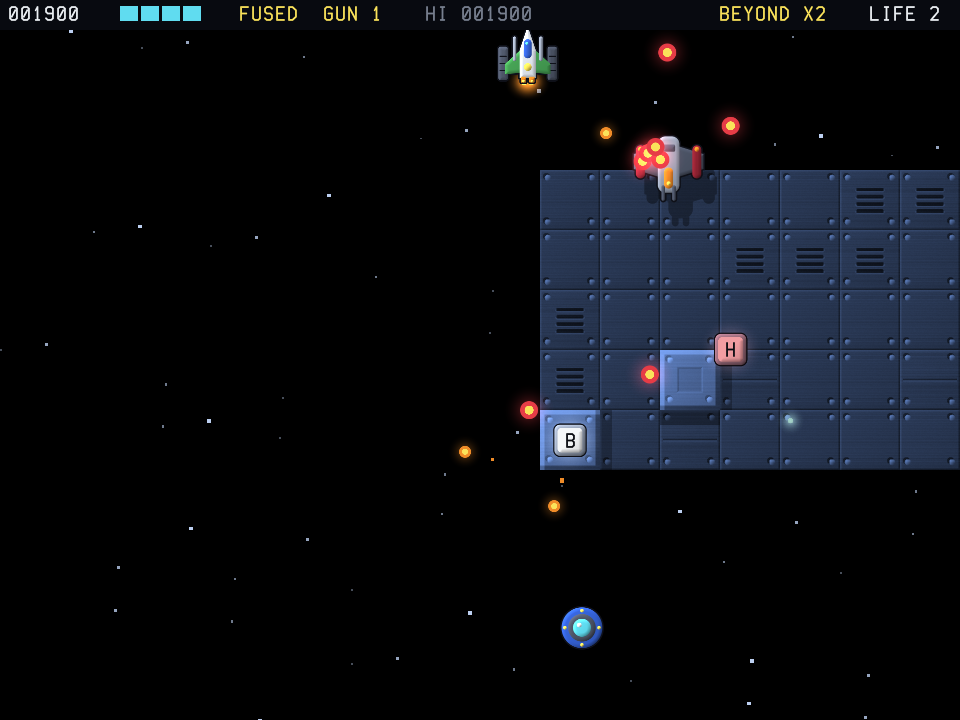
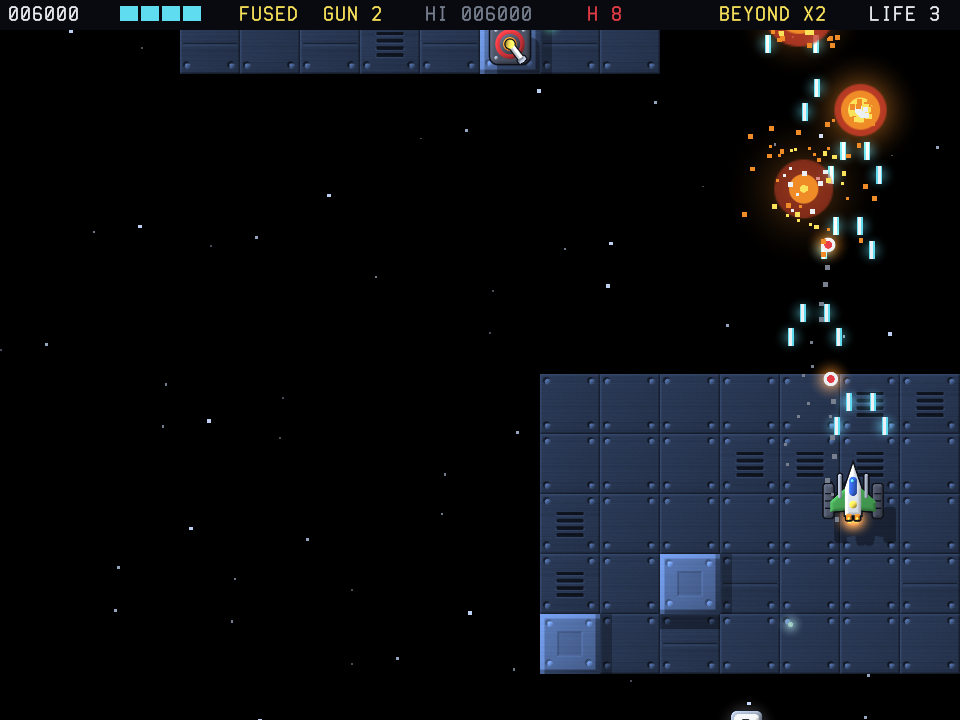
Give every fortress its own look
The nine fortresses moved and fired differently but were all drawn
from the same core and the same tower, in different colours.

Draw a core for each: a pinwheel, a shield with three prongs, a horned
wedge, a cluster of sacs, a ring with vanes, a blade with wings, a
plate with three cells and a slit-eyed ring, next to the first one.
The cores that fire a spiral turn with it.  Towers come in three
kinds.  The colour tint is gone.

The core sways a little less far, so it no longer rides over the
towers.

diff --git a/src/gfx.c b/src/gfx.c
@@ -46,7 +46,6 @@ struct font {
 
 static SDL_Renderer *ren;
 static SDL_Texture  *tex[SPR_MAX];
-static SDL_Color     tint[SPR_MAX];
 static SDL_Texture  *plate[THEME_MAX][PLATE_MAX];
 static SDL_Texture  *logo, *shine, *glow;
 static struct font   font[FONTS];
@@ -220,16 +219,167 @@ static const struct shape orb[] = {
 	{ 0 }
 };
 
+/* Round tower, for the fortresses with three. */
+static const struct shape pod3[] = {
+	{ 'c', 'd', 0, { 0, 0, 13.8f } },
+	{ 'c', 'O', 0, { 0, 0, 11.8f } },
+	{ 'c', 'g', 1, { 9, 0, 1 } },
+	{ 'c', 'g', 0, { 0, -9, 1 } },
+	{ 'c', 'g', 0, { 0, 9, 1 } },
+	{ 'c', 'd', 0, { 0, 0, 7.6f } },
+	{ 'c', 'y', 0, { 0, 0, 6 } },
+	{ 'c', 'o', 0, { 0, 0, 3.6f } },
+	{ 0 }
+};
+
+/* Armoured tower with a cross, for the fortresses with four. */
+static const struct shape pod4[] = {
+	{ 'b', 'd', 0, { 0, 0, 13.6f, 13.6f, 2 } },
+	{ 'b', 'B', 0, { 0, 0, 11.6f, 11.6f, 1.2f } },
+	{ 'b', 'd', 0, { 0, 0, 11.6f, 2.6f, 0.4f } },
+	{ 'b', 'd', 0, { 0, 0, 2.6f, 11.6f, 0.4f } },
+	{ 'c', 'd', 0, { 0, 0, 8.4f } },
+	{ 'c', 'c', 0, { 0, 0, 6.6f } },
+	{ 'c', 'b', 0, { 0, 0, 4 } },
+	{ 0 }
+};
+
+/* Pinwheel: four blades around a hub. */
+static const struct shape core2[] = {
+	{ 'p', 'T', 0, { 3, 2, -8, 21, -12, 9, 3 } },
+	{ 'p', 'T', 0, { 3, 8, 2, 12, 21, -3, 9 } },
+	{ 'p', 'T', 0, { 3, -2, 8, -21, 12, -9, -3 } },
+	{ 'p', 'T', 0, { 3, -8, -2, -12, -21, 3, -9 } },
+	{ 'c', 'T', 0, { 0, 0, 12.5f } },
+	{ 'c', 'd', 0, { 0, 0, 9.6f } },
+	{ 'c', 't', 0, { 0, 0, 7.8f } },
+	{ 'c', 'c', 0, { 0, 0, 4.6f } },
+	{ 'c', 'W', 0, { 0, 0, 1.8f } },
+	{ 0 }
+};
+
+/* Trident: a shield with three prongs pointing down the deck. */
+static const struct shape core3[] = {
+	{ 'p', 'g', 0, { 3, -3.4f, 6, 3.4f, 6, 0, 22.5f } },
+	{ 'p', 'g', 1, { 3, 8.5f, 4, 14.5f, 4, 12.5f, 19 } },
+	{ 'l', 'd', 1, { 18.5f, -13, 18.5f, 3, 2.6f } },
+	{ 'b', 'O', 0, { 0, -5, 17, 11, 4.5f } },
+	{ 'b', 'o', 0, { 0, -5, 14, 8, 3 } },
+	{ 'c', 'd', 0, { 0, -5, 7.6f } },
+	{ 'c', 'r', 0, { 0, -5, 5.8f } },
+	{ 'c', 'y', 0, { 0, -5, 3 } },
+	{ 0 }
+};
+
+/* Ram: a horned wedge. */
+static const struct shape core4[] = {
+	{ 'p', 'g', 1, { 3, 9, -13, 17, -22.5f, 19, -13 } },
+	{ 'p', 'R', 0, { 5, -18, -14, 18, -14, 20.5f, 0, 0, 22.5f, -20.5f, 0 } },
+	{ 'p', 'r', 0, { 5, -13, -10, 13, -10, 14.5f, -1, 0, 15, -14.5f, -1 } },
+	{ 'l', 'R', 0, { 0, -8, 0, 10, 1.3f } },
+	{ 'c', 'd', 1, { 6.4f, -3.5f, 3.6f } },
+	{ 'c', 'y', 1, { 6.4f, -3.5f, 2.5f } },
+	{ 'c', 'W', 1, { 6.4f, -3.5f, 1 } },
+	{ 0 }
+};
+
+/* Brood: a cluster of sacs around an eye. */
+static const struct shape core5[] = {
+	{ 'c', 'H', 1, { 13, 7, 8.5f } },
+	{ 'c', 'H', 1, { 11.5f, -12, 7.5f } },
+	{ 'c', 'H', 0, { 0, 14, 8.5f } },
+	{ 'c', 'H', 0, { 0, -2, 15.5f } },
+	{ 'c', 'G', 1, { 13, 7, 6 } },
+	{ 'c', 'G', 1, { 11.5f, -12, 5 } },
+	{ 'c', 'G', 0, { 0, 14, 6 } },
+	{ 'c', 'G', 0, { 0, -2, 12.5f } },
+	{ 'c', 'L', 1, { 13, 7, 3.2f } },
+	{ 'c', 'L', 1, { 11.5f, -12, 2.4f } },
+	{ 'c', 'L', 0, { 0, 14, 3.2f } },
+	{ 'c', 'd', 0, { 0, -2, 6.6f } },
+	{ 'c', 'y', 0, { 0, -2, 4.8f } },
+	{ 'c', 'r', 0, { 0, -2, 2.2f } },
+	{ 0 }
+};
+
+/* Cyclone: rings and vanes. */
+static const struct shape core6[] = {
+	{ 'c', 'B', 0, { 0, 0, 20.5f } },
+	{ 'l', 'b', 0, { -18.5f, 0, 18.5f, 0, 2.2f } },
+	{ 'l', 'b', 1, { -9.2f, -16, 9.2f, 16, 2.2f } },
+	{ 'c', 'd', 0, { 0, 0, 13.4f } },
+	{ 'c', 'b', 0, { 0, 0, 11.4f } },
+	{ 'c', 'c', 0, { 0, 0, 7.8f } },
+	{ 'c', 'B', 0, { 0, 0, 5 } },
+	{ 'c', 'W', 0, { 0, 0, 2.4f } },
+	{ 0 }
+};
+
+/* Lancer: a long blade with short wings. */
+static const struct shape core7[] = {
+	{ 'l', 'g', 1, { 19.5f, -4, 19.5f, 11, 1.7f } },
+	{ 'p', 'M', 1, { 4, 5, -13, 21.5f, -5, 21.5f, 2, 5, 3 } },
+	{ 'p', 'm', 0, { 5, -5.5f, -21, 5.5f, -21, 7.5f, 4, 0, 23, -7.5f, 4 } },
+	{ 'l', 'M', 0, { 0, -16, 0, 13, 1.5f } },
+	{ 'c', 'd', 0, { 0, -9, 4.4f } },
+	{ 'c', 'y', 0, { 0, -9, 3 } },
+	{ 'c', 'W', 0, { 0, -9, 1.2f } },
+	{ 0 }
+};
+
+/* Swarm: three cells on a plate. */
+static const struct shape core8[] = {
+	{ 'p', 'O', 0, { 5, 0, -23, 21.5f, 9, 13, 20.5f, -13, 20.5f, -21.5f, 9 } },
+	{ 'c', 'd', 0, { 0, -11, 9.8f } },
+	{ 'c', 'd', 1, { 10.6f, 7.5f, 9.8f } },
+	{ 'c', 'y', 0, { 0, -11, 8 } },
+	{ 'c', 'y', 1, { 10.6f, 7.5f, 8 } },
+	{ 'c', 'o', 0, { 0, -11, 5 } },
+	{ 'c', 'o', 1, { 10.6f, 7.5f, 5 } },
+	{ 'c', 'd', 0, { 0, -11, 2.4f } },
+	{ 'c', 'd', 1, { 10.6f, 7.5f, 2.4f } },
+	{ 'c', 'W', 0, { 0, 1.5f, 1.8f } },
+	{ 0 }
+};
+
+/* Overseer: an eye in a studded ring. */
+static const struct shape core9[] = {
+	{ 'b', 'R', 1, { 19, 0, 4, 6.5f, 1.6f } },
+	{ 'b', 'R', 0, { 0, -19, 6.5f, 4, 1.6f } },
+	{ 'b', 'R', 0, { 0, 19, 6.5f, 4, 1.6f } },
+	{ 'c', 'R', 1, { 14, -14, 4.6f } },
+	{ 'c', 'R', 1, { 14, 14, 4.6f } },
+	{ 'c', 'd', 0, { 0, 0, 19.5f } },
+	{ 'c', 'g', 1, { 14, -14, 1.6f } },
+	{ 'c', 'g', 1, { 14, 14, 1.6f } },
+	{ 'c', 'R', 0, { 0, 0, 16 } },
+	{ 'c', 'w', 0, { 0, 0, 13.4f } },
+	{ 'c', 'r', 0, { 0, 0, 8.8f } },
+	{ 'c', 'o', 0, { 0, 0, 6.4f } },
+	{ 'b', 'k', 0, { 0, 0, 1.9f, 6, 1.6f } },
+	{ 0 }
+};
+
 static const struct model model[SPR_MAX] = {
 	[SPR_SHIP]    = {  9, 0.5f, 0, ship },
 	[SPR_TANK]    = {  9, 0.5f, 0, tank },
 	[SPR_TURRET]  = {  8, 0.5f, 0, turret },
 	[SPR_GUN]     = {  8, 0.4f, 0, gun },
 	[SPR_POD]     = { 15, 0.6f, 0, pod },
+	[SPR_POD3]    = { 15, 0.6f, 0, pod3 },
+	[SPR_POD4]    = { 15, 0.6f, 0, pod4 },
 	[SPR_CRAWLER] = {  9, 0.5f, 0, crawler },
 	[SPR_DRONE]   = {  8, 0.5f, 0, drone },
 	[SPR_DART]    = {  9, 0.5f, 0, dart },
 	[SPR_CORE]    = { 24, 0.7f, 0, core },
+	[SPR_CORE2]   = { 24, 0.7f, 0, core2 },
+	[SPR_CORE3]   = { 24, 0.7f, 0, core3 },
+	[SPR_CORE4]   = { 24, 0.7f, 0, core4 },
+	[SPR_CORE5]   = { 24, 0.7f, 0, core5 },
+	[SPR_CORE6]   = { 24, 0.7f, 0, core6 },
+	[SPR_CORE7]   = { 24, 0.7f, 0, core7 },
+	[SPR_CORE8]   = { 24, 0.7f, 0, core8 },
+	[SPR_CORE9]   = { 24, 0.7f, 0, core9 },
 	[SPR_ROVER]   = {  8, 0.5f, 0, rover },
 	[SPR_GUNSHIP] = { 13, 0.5f, 0, gunship },
 	[SPR_HEAVY]   = { 11, 0.5f, 0, heavy },
@@ -256,6 +406,13 @@ static struct rgb pal(char ch)
 	case 'H': return (struct rgb){  44, 112,  64 };
 	case 'p': return (struct rgb){ 150,  84, 196 };
 	case 'P': return (struct rgb){ 100,  56, 140 };
+	case 't': return (struct rgb){  50, 180, 170 };
+	case 'T': return (struct rgb){  30, 110, 118 };
+	case 'm': return (struct rgb){ 222,  80, 170 };
+	case 'M': return (struct rgb){ 140,  44, 120 };
+	case 'B': return (struct rgb){  34,  60, 140 };
+	case 'O': return (struct rgb){ 160,  92,  36 };
+	case 'L': return (struct rgb){ 180, 226,  80 };
 	default:  return (struct rgb){  14,  16,  24 };
 	}
 }
@@ -745,10 +902,8 @@ void gfx_init(SDL_Renderer *r)
 		for (int i = 0; i < PLATE_MAX; i++)
 			plate[theme][i] = make_plate(i, theme);
 	}
-	for (int i = 0; i < SPR_MAX; i++) {
+	for (int i = 0; i < SPR_MAX; i++)
 		tex[i] = make_sprite(&model[i]);
-		tint[i] = (SDL_Color){ 255, 255, 255, 255 };
-	}
 	logo = make_logo();
 	glow = make_glow();
 }
@@ -777,14 +932,8 @@ void gfx_tinted(int id, float x, float y, float scale, SDL_Color c)
 	SDL_SetTextureColorMod(tex[id], c.r, c.g, c.b);
 	SDL_SetTextureAlphaMod(tex[id], c.a);
 	draw(id, x, y, 0, scale);
+	SDL_SetTextureColorMod(tex[id], 255, 255, 255);
 	SDL_SetTextureAlphaMod(tex[id], 255);
-	SDL_SetTextureColorMod(tex[id], tint[id].r, tint[id].g, tint[id].b);
-}
-
-void gfx_tint(int id, SDL_Color c)
-{
-	tint[id] = c;
-	SDL_SetTextureColorMod(tex[id], c.r, c.g, c.b);
 }
 
 void gfx_disc(float x, float y, float r, SDL_Color c)

diff --git a/src/game.c b/src/game.c
@@ -10,6 +10,7 @@
 #define BLAST_LIFE 20
 #define MAX_SHAKE  10
 #define SCAN_GAP   60
+#define SPIRAL_TURN 0.07f	/* radians per frame */
 #define CORE_CYCLE 300	/* frames between swoops, and between rovers */
 #define MAX_ITEM   8
 #define MAX_HP     4
@@ -363,22 +364,13 @@ static void skip_spawns(void)
 		g.next_spawn++;
 }
 
-static void load_level(int sector)
-{
-	SDL_Color tint = level_boss(sector)->tint;
-
-	level_generate(&lv, sector);
-	gfx_tint(SPR_CORE, tint);
-	gfx_tint(SPR_POD, tint);
-}
-
 static void start_sector(int sector)
 {
 	struct player *p = &g.p;
 
 	g.sector = sector;
 	g.mouse = 0;
-	load_level(sector);
+	level_generate(&lv, sector);
 
 	memset(g.enemy, 0, sizeof(g.enemy));
 	memset(g.bullet, 0, sizeof(g.bullet));
@@ -698,7 +690,7 @@ static void core_move(struct enemy *e)
 {
 	int dive = e->t % CORE_CYCLE - 200;
 
-	e->x = SCREEN_W / 2 + 70 * sinf(e->t * 0.02f);
+	e->x = SCREEN_W / 2 + 46 * sinf(e->t * 0.02f);
 	e->y = CORE_Y;
 
 	switch (boss()->move) {
@@ -726,7 +718,7 @@ static void core_fire(struct enemy *e, float aim)
 	case FIRE_SPIRAL:
 		/* two arms that turn as they fire */
 		if (e->t % (9 - rank() / 3) == 0)
-			enemy_fire(e, e->t * 0.07f, 2, (float)M_PI);
+			enemy_fire(e, e->t * SPIRAL_TURN, 2, (float)M_PI);
 		break;
 	case FIRE_FAN:
 		/* two volleys at the player, close together */
@@ -1055,7 +1047,7 @@ static void next_lap(void)
 {
 	float shift;
 
-	load_level(++g.sector);
+	level_generate(&lv, ++g.sector);
 	shift = START_CAM - g.cam;
 	g.cam += shift;
 	g.p.y += shift;
@@ -1111,7 +1103,7 @@ static void update_fuse(void)
 static void show_title(void)
 {
 	g.sector = 0;
-	load_level(0);
+	level_generate(&lv, 0);
 	g.cam = START_CAM;
 	g.state = ST_TITLE;
 	sfx_music("title");
@@ -1404,7 +1396,7 @@ static void draw_enemies(int air, float cam)
 		const struct enemy *e = &g.enemy[i];
 		const struct etype_info *t = &et[e->type];
 		float y = e->y - cam, aim = aim_at(e) * 180 / (float)M_PI, ang = 0;
-		int mode = e->flash ? DRAW_FLASH : DRAW_NORMAL;
+		int mode = e->flash ? DRAW_FLASH : DRAW_NORMAL, spr = t->sprite;
 
 		if (!e->alive || e->delay || flies(e) != air)
 			continue;
@@ -1416,12 +1408,21 @@ static void draw_enemies(int air, float cam)
 			ang = aim;
 		}
 
+		if (e->type == E_POD)
+			spr = boss()->pod;
+		if (e->type == E_CORE) {
+			spr = boss()->core;
+			/* the ones that fire a spiral turn with it */
+			if (boss()->fire == FIRE_SPIRAL)
+				ang = e->t * SPIRAL_TURN * 180 / (float)M_PI;
+		}
+
 		/* whatever the ship can hit is up high and casts a shadow */
 		if (flies(e))
-			gfx_tinted(t->sprite, e->x + 4, y + 8, 1, SHADOW);
+			gfx_tinted(spr, e->x + 4, y + 8, 1, SHADOW);
 		else if (level_of(e) & L_AIR)
-			gfx_tinted(t->sprite, e->x + t->radius * 0.4f, y + t->radius * 0.7f, 1, SHADOW);
-		gfx_sprite(t->sprite, e->x, y, ang, 1, mode);
+			gfx_tinted(spr, e->x + t->radius * 0.4f, y + t->radius * 0.7f, 1, SHADOW);
+		gfx_sprite(spr, e->x, y, ang, 1, mode);
 		if (t->gun)
 			gfx_sprite(SPR_GUN, e->x, y, aim, t->gun, mode);
 

diff --git a/src/game.h b/src/game.h
@@ -17,8 +17,11 @@
 enum tile   { T_FLOOR, T_WALL, T_ROOF, T_VOID };
 enum etype  { E_TURRET, E_CRAWLER, E_DRONE, E_DART, E_POD, E_CORE, E_ROVER, E_GUNSHIP, E_HEAVY };
 enum sprite {
-	SPR_SHIP, SPR_TANK, SPR_TURRET, SPR_GUN, SPR_POD, SPR_CRAWLER, SPR_DRONE, SPR_DART, SPR_CORE, SPR_ROVER,
-	SPR_GUNSHIP, SPR_HEAVY, SPR_FUSED, SPR_BUDDY, SPR_CAPSULE, SPR_ORB, SPR_MAX
+	SPR_SHIP, SPR_TANK, SPR_TURRET, SPR_GUN, SPR_CRAWLER, SPR_DRONE, SPR_DART, SPR_ROVER,
+	SPR_GUNSHIP, SPR_HEAVY, SPR_FUSED, SPR_BUDDY, SPR_CAPSULE, SPR_ORB,
+	SPR_POD, SPR_POD3, SPR_POD4,
+	SPR_CORE, SPR_CORE2, SPR_CORE3, SPR_CORE4, SPR_CORE5, SPR_CORE6, SPR_CORE7, SPR_CORE8, SPR_CORE9,
+	SPR_MAX
 };
 enum sfx    { SFX_SHOT, SFX_HIT, SFX_BOOM, SFX_MORPH, SFX_DENY, SFX_PICKUP, SFX_HURT, SFX_MAX };
 enum draw   { DRAW_NORMAL, DRAW_FLASH };
@@ -50,8 +53,8 @@ struct level {
 /* The fortress at the end of a sector: towers to shoot down, then the core. */
 struct boss {
 	const char *name;
+	int         core, pod;	/* sprites */
 	int         pods, move, fire, brood;
-	SDL_Color   tint;
 };
 
 /* Sectors from SECTORS on are laps of the open space beyond the last one. */
@@ -64,8 +67,6 @@ float gfx_scale(void);
 /* Coordinates are game pixels, drawn at the resolution of the window. */
 void gfx_sprite(int id, float x, float y, double angle, float scale, int mode);
 void gfx_tinted(int id, float x, float y, float scale, SDL_Color c);
-/* Colours a sprite from now on. */
-void gfx_tint(int id, SDL_Color c);
 void gfx_disc(float x, float y, float r, SDL_Color c);
 /* Soft light added on top of what is there. */
 void gfx_glow(float x, float y, float r, SDL_Color c);

diff --git a/src/level.c b/src/level.c
@@ -8,15 +8,15 @@ enum { SEG_OPEN, SEG_WALL, SEG_ROOF, SEG_MAZE, SEG_MAX };
 
 /* The laps beyond the last sector go through them again. */
 static const struct boss bosses[SECTORS] = {
-	{ "WARDEN",   2, MOVE_SWAY,  FIRE_RING,   0, { 255, 255, 255, 255 } },
-	{ "PINWHEEL", 2, MOVE_SWAY,  FIRE_SPIRAL, 0, { 150, 255, 200, 255 } },
-	{ "TRIDENT",  3, MOVE_EIGHT, FIRE_FAN,    0, { 255, 215, 130, 255 } },
-	{ "RAM",      2, MOVE_SWOOP, FIRE_RING,   0, { 255, 150, 150, 255 } },
-	{ "BROOD",    3, MOVE_SWAY,  FIRE_RING,   1, { 200, 255, 120, 255 } },
-	{ "CYCLONE",  4, MOVE_EIGHT, FIRE_SPIRAL, 0, { 140, 215, 255, 255 } },
-	{ "LANCER",   3, MOVE_SWOOP, FIRE_FAN,    0, { 255, 170, 255, 255 } },
-	{ "SWARM",    4, MOVE_SWAY,  FIRE_SPIRAL, 1, { 255, 255, 130, 255 } },
-	{ "OVERSEER", 4, MOVE_EIGHT, FIRE_RING,   0, { 255, 255, 255, 255 } },
+	{ "WARDEN",   SPR_CORE,  SPR_POD,  2, MOVE_SWAY,  FIRE_RING,   0 },
+	{ "PINWHEEL", SPR_CORE2, SPR_POD,  2, MOVE_SWAY,  FIRE_SPIRAL, 0 },
+	{ "TRIDENT",  SPR_CORE3, SPR_POD3, 3, MOVE_EIGHT, FIRE_FAN,    0 },
+	{ "RAM",      SPR_CORE4, SPR_POD,  2, MOVE_SWOOP, FIRE_RING,   0 },
+	{ "BROOD",    SPR_CORE5, SPR_POD3, 3, MOVE_SWAY,  FIRE_RING,   1 },
+	{ "CYCLONE",  SPR_CORE6, SPR_POD4, 4, MOVE_EIGHT, FIRE_SPIRAL, 0 },
+	{ "LANCER",   SPR_CORE7, SPR_POD3, 3, MOVE_SWOOP, FIRE_FAN,    0 },
+	{ "SWARM",    SPR_CORE8, SPR_POD4, 4, MOVE_SWAY,  FIRE_SPIRAL, 1 },
+	{ "OVERSEER", SPR_CORE9, SPR_POD4, 4, MOVE_EIGHT, FIRE_RING,   0 },
 };
 
 static unsigned seed;

diff --git a/README.md b/README.md
@@ -91,8 +91,8 @@ Each sector ends with a fortress.  Its core sits on the ground and is
 shielded until all of its towers are shot down from the air.  A bar at
 the top of the screen shows what the core has left.
 
-Every sector has its own fortress.  They have two, three or four
-towers.  Some cores sway from side to side, some weave, and some come
+Every sector has its own fortress, with a core and towers that look
+the part.  They have two, three or four towers.  Some cores sway from side to side, some weave, and some come
 swooping down the deck at you.  They fire rings of shots, turning
 spirals or volleys aimed at the tank, and two of them send out rovers.
 
